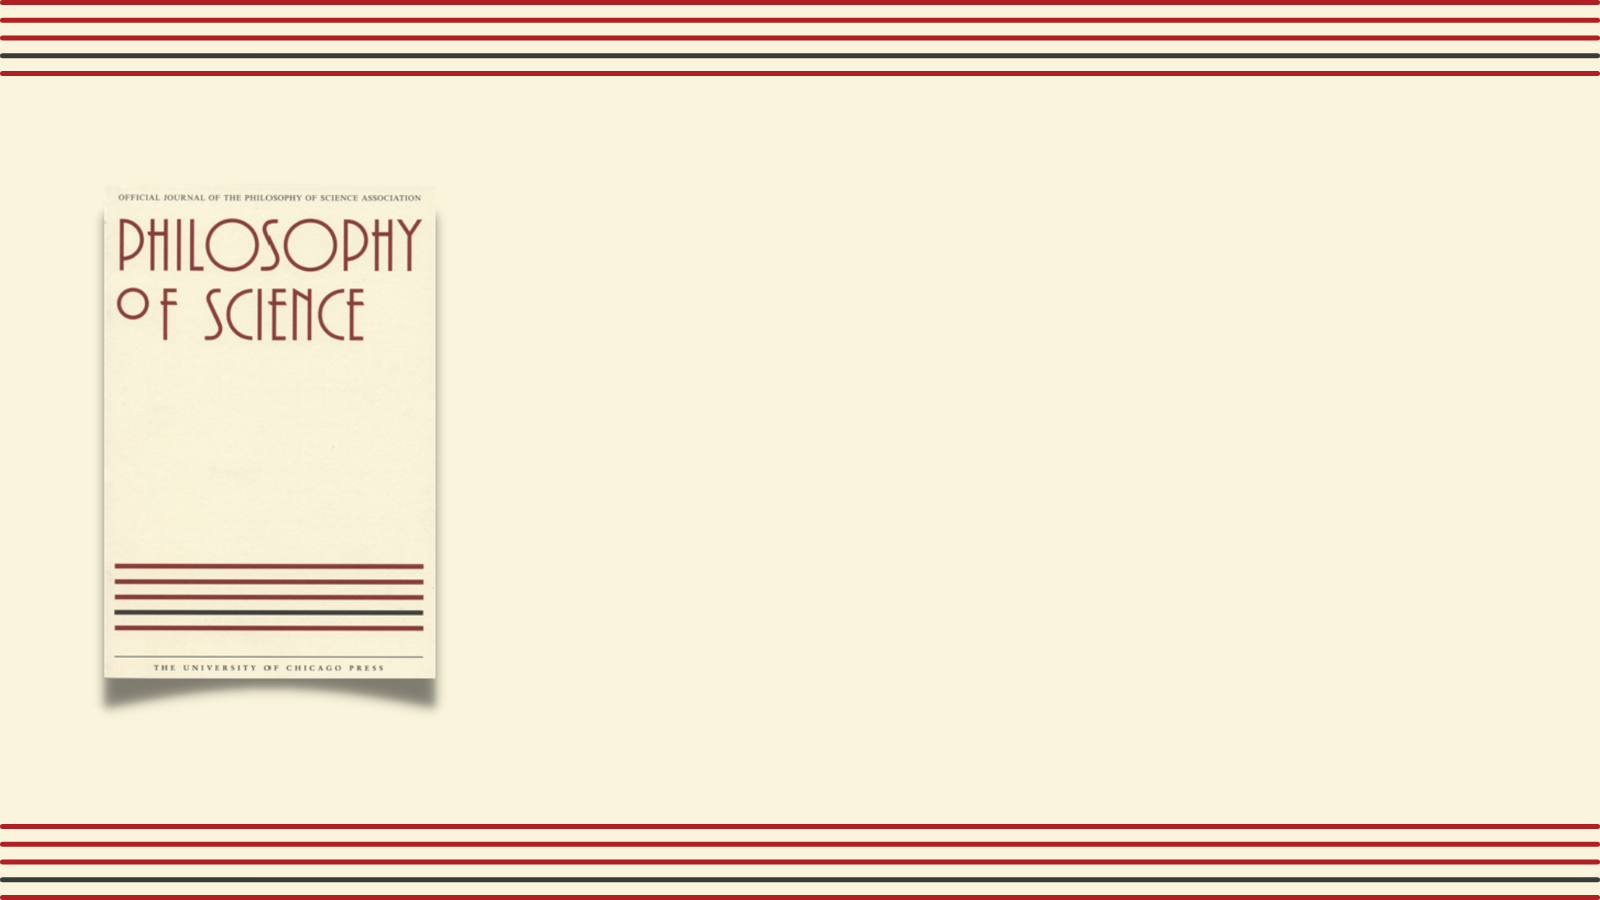
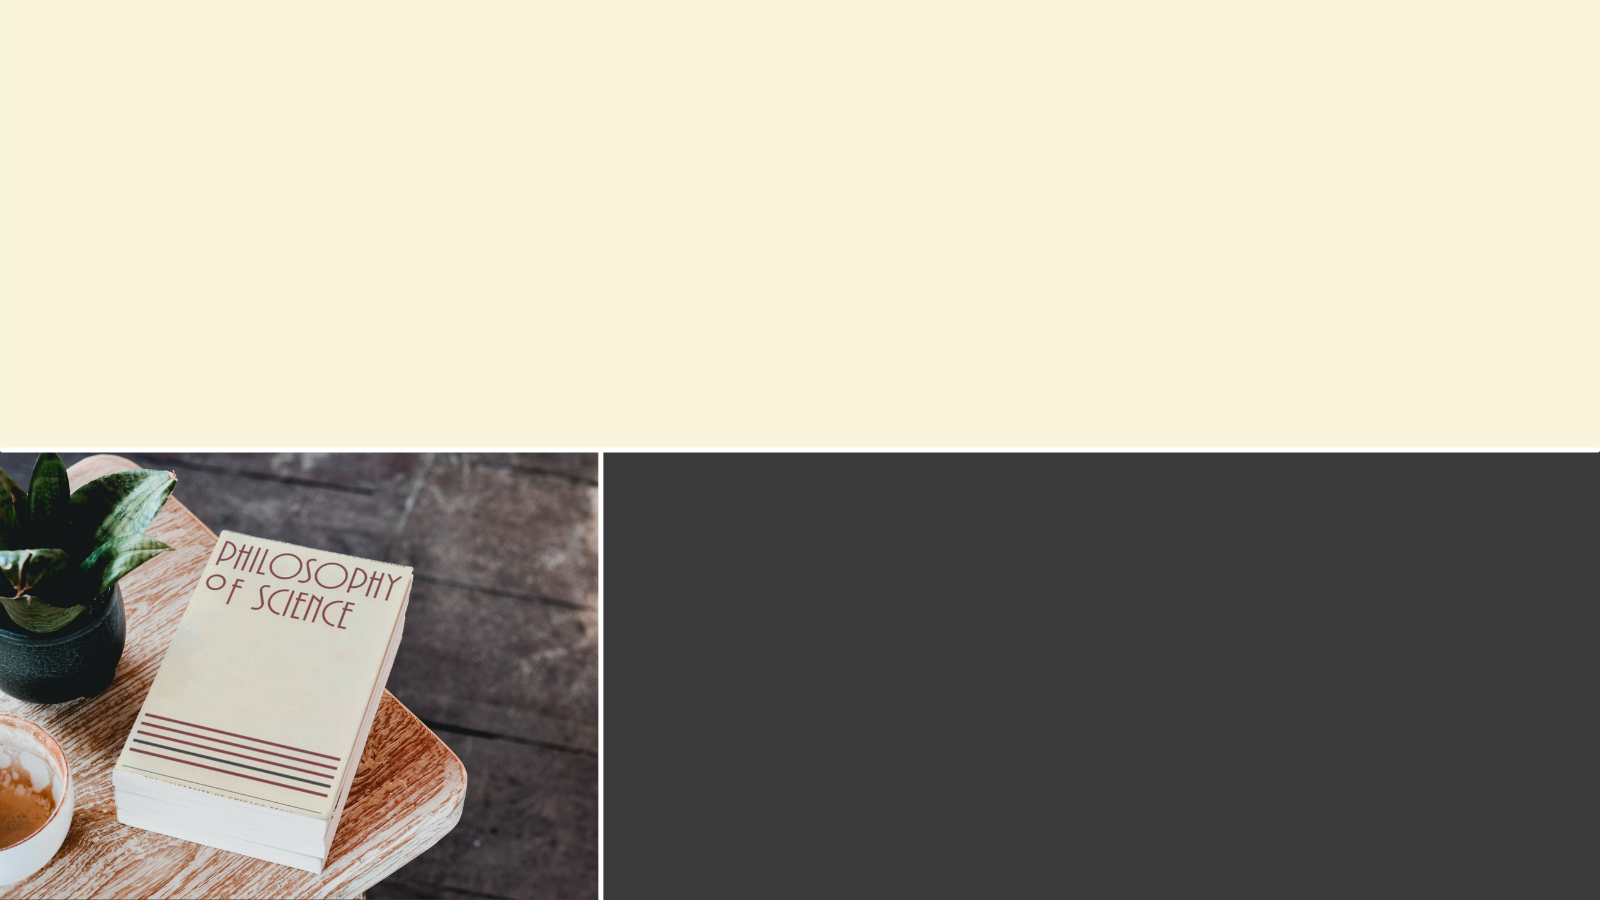
updated image logic

diff --git a/_data/articles.js b/_data/articles.js
@@ -25,13 +25,29 @@ async function getFeed() {
 
 async function formatData() {
   const data = await getFeed();
-  const articles = data.map((item) => {
+  const articles = data.map(async (item) => {
     const article = new Article(item);
-    // createThumbs(article);
+    const abstract = await getAbstract(article.link);
+    article.abstract = abstract;
+    console.log(article);
+    createThumbs(article);
     return article;
   });
+  const formattedArticles = await Promise.all(articles);
+  return formattedArticles;
+}
 
-  return articles;
+function segment(title, length) {
+  if (title.length < length) {
+    return [title.trim()];
+  }
+
+  const mid = Math.round(title.length / 2);
+  const breakSpot = title.indexOf(" ", mid);
+  return [
+    ...segment(title.substring(0, breakSpot).trim(), length),
+    ...segment(title.substring(breakSpot).trim(), length),
+  ];
 }
 
 function parseContentSnippet(snippet) {
@@ -55,49 +71,65 @@ class Article {
     this.pages = this.parsed.pages;
     this.issue = this.parsed.issue;
     this.image = `/img/${slugify(this.title, { lower: true })}.png`;
+    this.imageAbstract = `/img/${slugify(this.title, {
+      lower: true,
+    })}-abstract.png`;
   }
 }
 
 const articles = formatData();
 
-module.exports = articles;
+function createTitleText(titleArr, ctx, type) {
+  for (const title in titleArr) {
+    if (type === "title") {
+      ctx.font = "bold 70px Inter";
+      ctx.fillStyle = "#000";
+      ctx.fillText(titleArr[title], 94, 130 + 80 * title, 1412);
+    } else {
+      ctx.font = "40px Inter";
+      ctx.fillStyle = "#eee";
+      ctx.fillText(titleArr[title], 94, 140 + 60 * title, 1412);
+    }
+  }
+}
 
 function createThumbs(data) {
   const canvas = createCanvas(1600, 900);
   const ctx = canvas.getContext("2d");
   const title = data.title;
-
-  const mid = Math.round(title.length / 2);
-  const breakSpot = title.indexOf(" ", mid);
-  const top = title.substring(0, breakSpot).trim();
-  const bottom = title.substring(breakSpot).trim();
-  console.log(mid, top, bottom);
+  const titleArr = segment(title, 45);
   const creator = data.creator;
   const slug = slugify(data.title, { lower: true });
-
   const pubDate = `Volume ${data.volume}, no. ${data.issue} (${data.date}): ${data.pages}`;
   loadImage("./_data/template.png").then((image) => {
     ctx.drawImage(image, 0, 0, 1600, 900);
 
-    ctx.font = "bold 40px Inter";
-    ctx.fillStyle = "#000";
-    ctx.fillText(top, 500, 350, 1000);
+    createTitleText(titleArr, ctx, "title");
 
-    ctx.font = "bold 40px Inter";
-    ctx.fillStyle = "#000";
-    ctx.fillText(bottom, 500, 400, 1000);
+    ctx.font = "65px Inter";
+    ctx.fillStyle = "#fff";
+    ctx.fillText(creator, 700, 652);
 
-    ctx.font = "30px Inter";
-    ctx.fillStyle = "#111";
-    ctx.fillText(creator, 500, 450);
-
-    ctx.font = "light 20px Inter";
-    ctx.fillStyle = "#222";
-    ctx.fillText(pubDate, 500, 550);
+    ctx.font = "light 30px Inter";
+    ctx.fillStyle = "#eee";
+    ctx.fillText(pubDate, 700, 652 + 70);
 
     const buffer = canvas.toBuffer("image/png");
     fs.writeFileSync(`./_site/img/${slug}.png`, buffer);
   });
+
+  // Abstract Thumb
+  const abstractCanvas = createCanvas(1600, 900);
+  const abstractCtx = abstractCanvas.getContext("2d");
+  abstractCtx.fillStyle = "#3a3a3a";
+  abstractCtx.fillRect(0, 0, 1600, 900);
+  abstractCtx.font = "bold 70px Inter";
+  abstractCtx.fillStyle = "#878787";
+  abstractCtx.fillText("ABSTRACT", 94, 830);
+  const abstract = data.abstract;
+  createTitleText(segment(abstract, 90), abstractCtx, "abstract");
+  const abstractBuffer = abstractCanvas.toBuffer("image/png");
+  fs.writeFileSync(`./_site/img/${slug}-abstract.png`, abstractBuffer);
 }
 
 async function getAbstract(url) {
@@ -105,11 +137,9 @@ async function getAbstract(url) {
     jar: cookieJar,
     withCredentials: true,
   });
-  fs.writeFileSync("./text.html", data);
   const selector = cheerio.load(data);
   const abstract = selector(".abstractSection.abstractInFull > p").text();
   return abstract;
 }
 
-getAbstract("https://www.journals.uchicago.edu/doi/abs/10.1086/712883");
-// getAbstract("https://ryanfeigenbaum.com/");
+module.exports = articles;

diff --git a/index.html b/index.html
@@ -25,11 +25,17 @@
             🖨 <em>Philosophy of Science</em> {{article.volume}}, no.
             {{article.issue}} ({{article.date}}): {{article.pages}}.
           </p>
+
           <a class="link" href="{{article.link}}">🔗 {{article.link}}</a>
         </div>
         <img src="{{article.image}}" alt="" />
+        <img src="{{article.imageAbstract}}" alt="" />
       </article>
       {% endfor %}
     </div>
+    <script src="https://cdn.jsdelivr.net/npm/medium-zoom@1.0.6/dist/medium-zoom.min.js"></script>
+    <script>
+      mediumZoom(document.querySelectorAll("img"));
+    </script>
   </body>
 </html>
